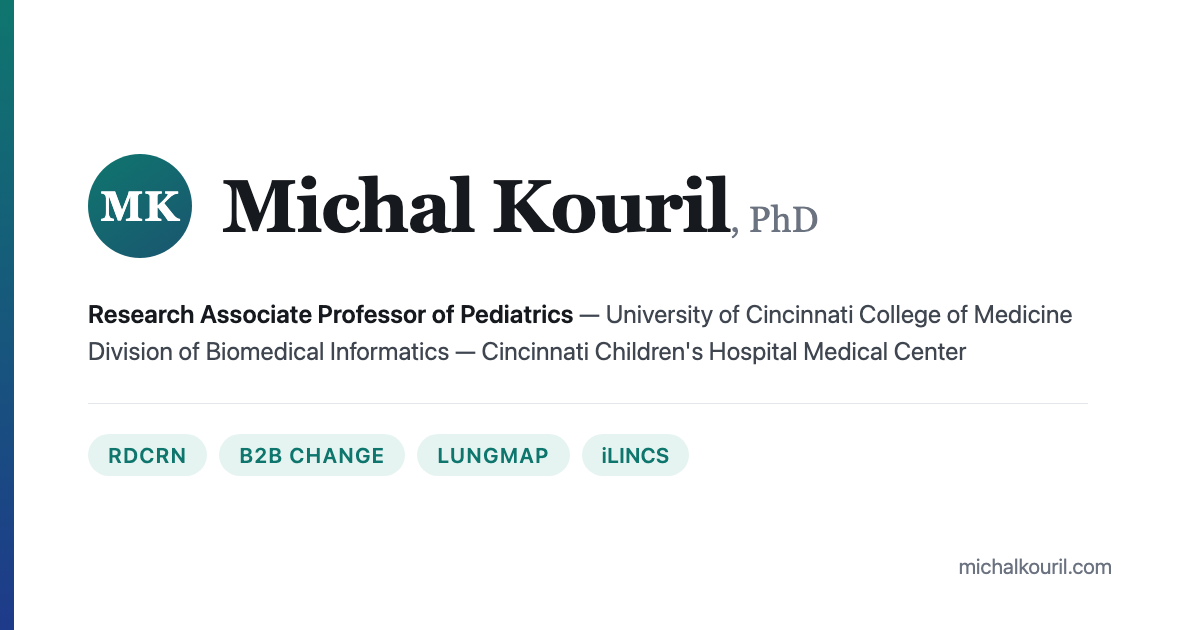
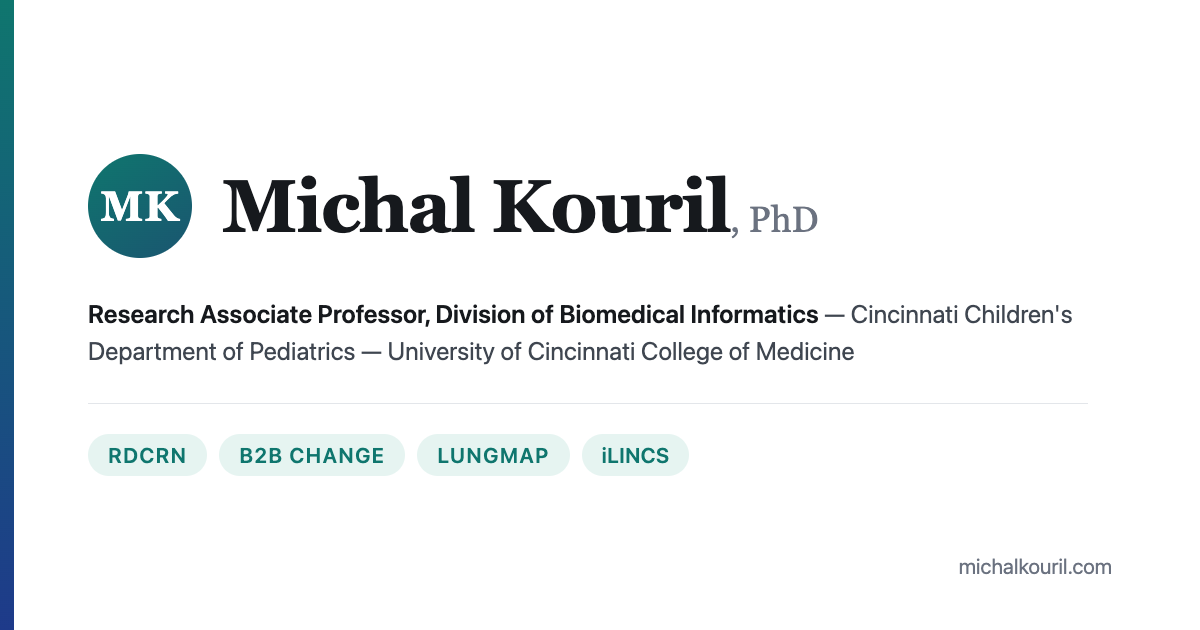
Lead with Cincinnati Children's as the primary affiliation
Cincinnati Children's now comes first everywhere it is stated, with the
University of Cincinnati appointment second: hero, About, meta
description, og:description, og:image:alt, and the footer disclaimer.
Also shortens 'Cincinnati Children's Hospital Medical Center' to
'Cincinnati Children's' in running copy, matching the contact block.

og-card.png regenerated from og-card.source.html so the social preview
carries the same order.

Structured data already had this right (worksFor Cincinnati Children's
with the BMI department, affiliation University of Cincinnati) and is
unchanged.

Changed region(s): [[0.0925, 0.5429, 0.8017, 0.573], [0.3392, 0.4825, 0.8942, 0.5127]]

diff --git a/index.html b/index.html
@@ -4,18 +4,18 @@
 <meta charset="utf-8">
 <meta name="viewport" content="width=device-width, initial-scale=1">
 <title>Michal Kouril, PhD — Biomedical Informatics &amp; Research Data Coordination</title>
-<meta name="description" content="Michal Kouril, PhD — Research Associate Professor of Pediatrics at the University of Cincinnati, Division of Biomedical Informatics at Cincinnati Children's. Leads informatics for NIH data management and coordinating centers including RDCRN, B2B CHANGE, and LungMAP.">
+<meta name="description" content="Michal Kouril, PhD — Research Associate Professor in the Division of Biomedical Informatics at Cincinnati Children's, and the Department of Pediatrics at the University of Cincinnati. Leads informatics for NIH data management and coordinating centers including RDCRN, B2B CHANGE, and LungMAP.">
 <meta name="author" content="Michal Kouril">
 <link rel="canonical" href="https://www.michalkouril.com/">
 
 <meta property="og:type" content="profile">
 <meta property="og:title" content="Michal Kouril, PhD">
-<meta property="og:description" content="Leading informatics for NIH data management and coordinating centers — RDCRN, B2B CHANGE, and LungMAP — at Cincinnati Children's Hospital Medical Center.">
+<meta property="og:description" content="Leading informatics for NIH data management and coordinating centers — RDCRN, B2B CHANGE, and LungMAP — at Cincinnati Children's.">
 <meta property="og:url" content="https://www.michalkouril.com/">
 <meta property="og:image" content="https://www.michalkouril.com/og-card.png">
 <meta property="og:image:width" content="1200">
 <meta property="og:image:height" content="630">
-<meta property="og:image:alt" content="Michal Kouril, PhD — Biomedical Informatics, Cincinnati Children's Hospital Medical Center">
+<meta property="og:image:alt" content="Michal Kouril, PhD — Biomedical Informatics, Cincinnati Children's">
 <meta name="twitter:card" content="summary_large_image">
 <meta name="theme-color" content="#0f766e" media="(prefers-color-scheme: light)">
 <meta name="theme-color" content="#0f1216" media="(prefers-color-scheme: dark)">
@@ -363,8 +363,8 @@
       <div>
         <h1>Michal Kouril</h1>
         <p class="roles">
-          <span>Research Associate Professor of Pediatrics — University of Cincinnati College of Medicine</span>
-          <span>Division of Biomedical Informatics — Cincinnati Children's Hospital Medical Center</span>
+          <span>Research Associate Professor, Division of Biomedical Informatics — Cincinnati Children's</span>
+          <span>Department of Pediatrics — University of Cincinnati College of Medicine</span>
         </p>
         <p class="lede">
           I lead the informatics behind large NIH-funded data management and coordinating centers —
@@ -407,9 +407,9 @@
     <div class="prose">
       <p>
         I am a Research Associate Professor in the
-        <strong>University of Cincinnati Department of Pediatrics</strong> and a member of the
         <a href="https://www.cincinnatichildrens.org/research/divisions/b/bmi" rel="noopener noreferrer" target="_blank"><strong>Division
-        of Biomedical Informatics</strong></a> at Cincinnati Children's Hospital Medical Center. I studied Information Technology at the
+        of Biomedical Informatics</strong></a> at <strong>Cincinnati Children's</strong>, and in the
+        <strong>University of Cincinnati Department of Pediatrics</strong>. I studied Information Technology at the
         University of Economics in Prague, and earned my PhD in Computer Science from the University
         of Cincinnati in 2006 under Prof. Jerome L. Paul.
       </p>
@@ -949,7 +949,7 @@
   <div class="wrap">
     <div class="colophon">
       <p>© 2026 Michal Kouril · <a href="https://www.michalkouril.com/">www.michalkouril.com</a></p>
-      <p>Views expressed here are my own and do not necessarily represent those of Cincinnati Children's Hospital Medical Center or the University of Cincinnati.</p>
+      <p>Views expressed here are my own and do not necessarily represent those of Cincinnati Children's or the University of Cincinnati.</p>
     </div>
     <!-- Revealed by script; without JS it would do nothing, so it stays hidden. -->
     <button id="theme-toggle" type="button" hidden>

diff --git a/og-card.source.html b/og-card.source.html
@@ -39,8 +39,8 @@
     <h1>Michal Kouril<span class="suffix">, PhD</span></h1>
   </div>
   <p class="roles">
-    <b>Research Associate Professor of Pediatrics</b> — University of Cincinnati College of Medicine<br>
-    Division of Biomedical Informatics — Cincinnati Children's Hospital Medical Center
+    <b>Research Associate Professor, Division of Biomedical Informatics</b> — Cincinnati Children's<br>
+    Department of Pediatrics — University of Cincinnati College of Medicine
   </p>
   <div class="rule"></div>
   <div class="tags">
